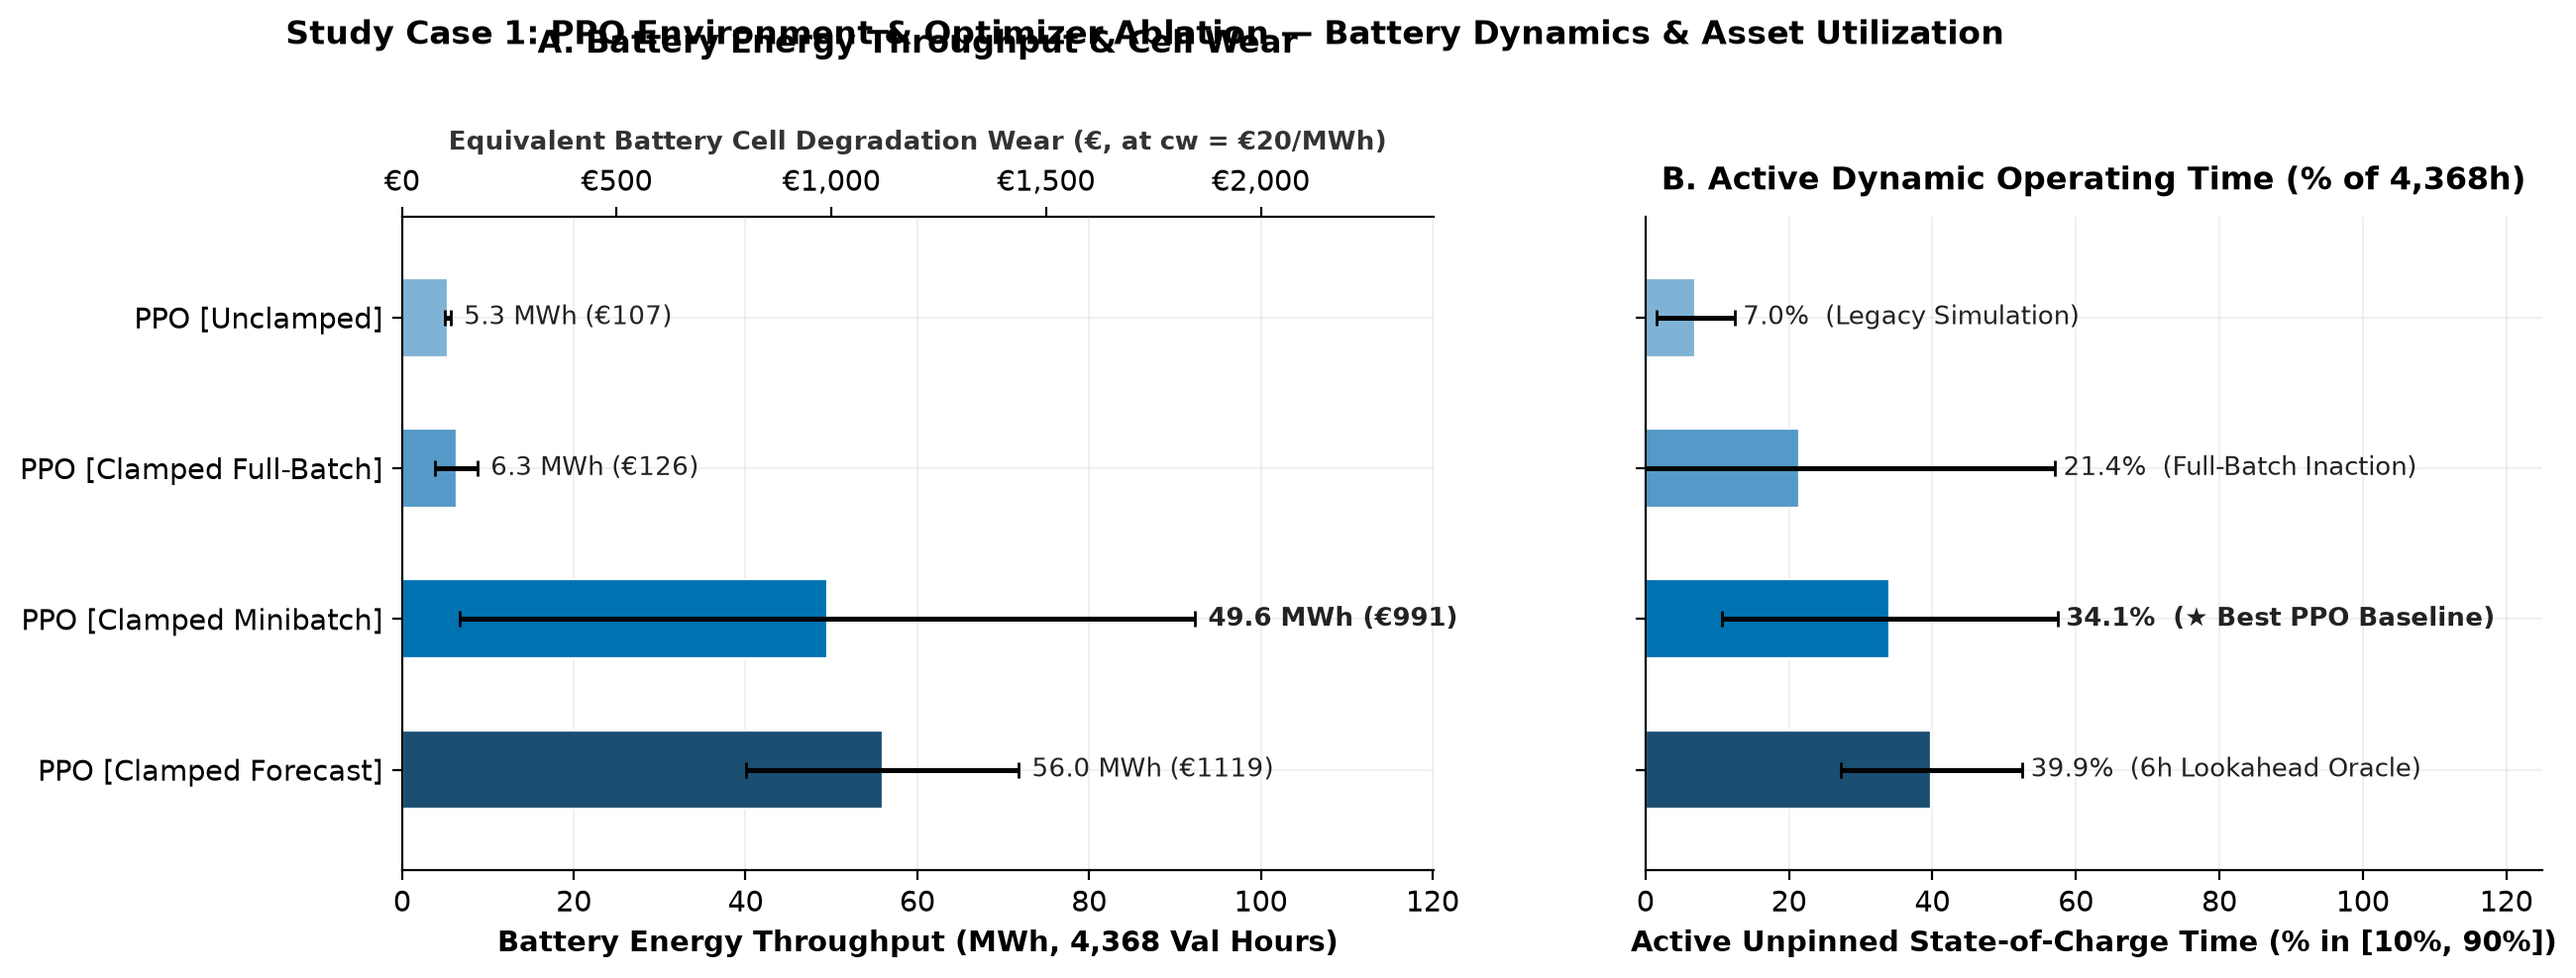
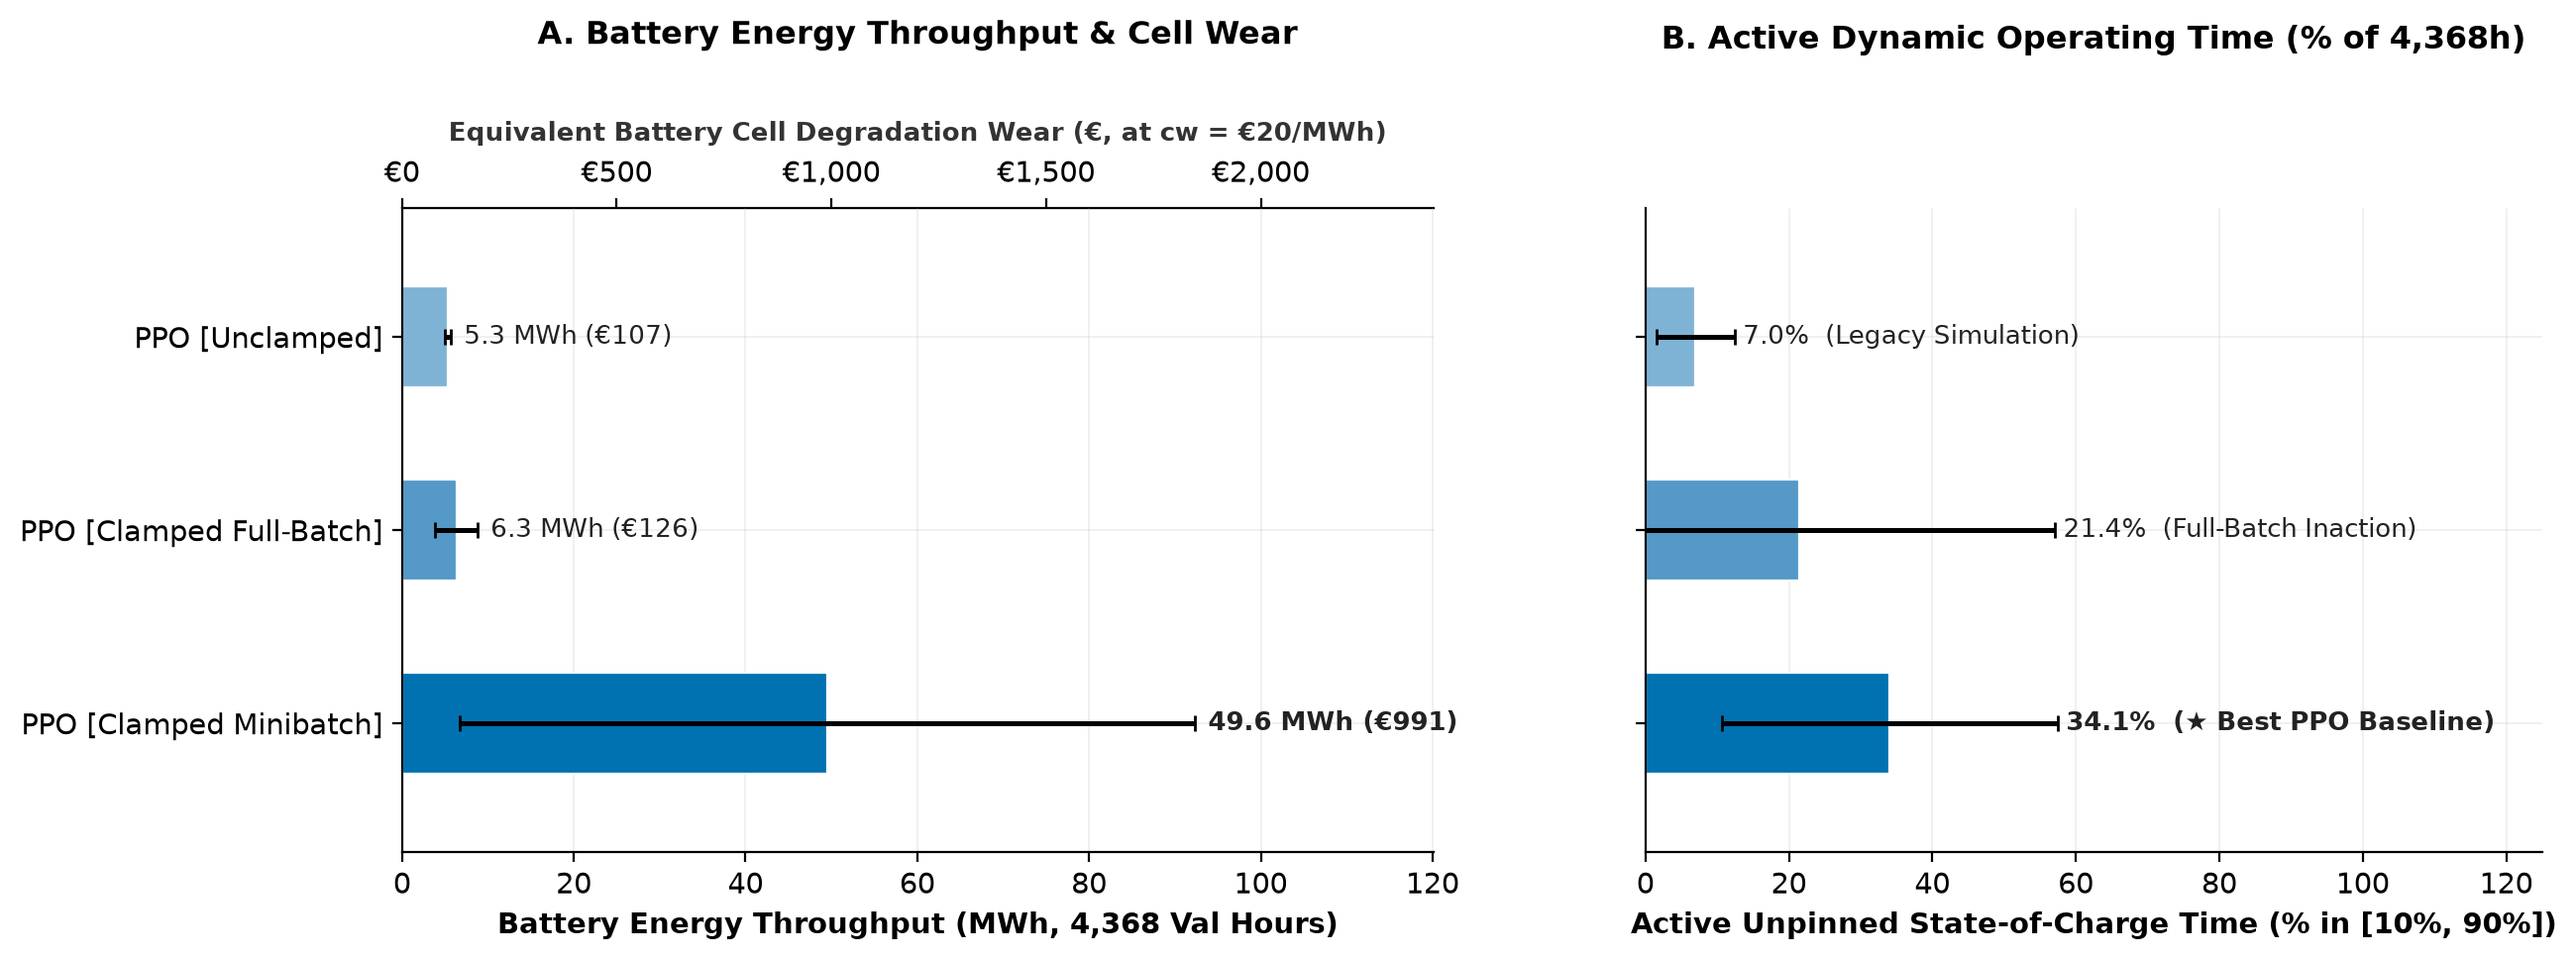
Fix text overlap in ppo_ablation_battery_dynamics: align panel titles and remove colliding suptitle

diff --git a/tools/report/plots.py b/tools/report/plots.py
@@ -1895,11 +1895,9 @@ def fig_ppo_ablation_battery_dynamics(all_families, baselines, out_dir=None):
     ax_soc.set_ylim(min(y_ticks) - 0.7, max(y_ticks) + 0.7)
     ax_soc.set_xlim(0, 125)
     ax_soc.set_xlabel("Active Unpinned State-of-Charge Time (% in [10%, 90%])", fontsize=10.5, fontweight="bold")
-    ax_soc.set_title("B. Active Dynamic Operating Time (% of 4,368h)", fontsize=11.5, fontweight="bold", pad=10)
+    ax_soc.set_title("B. Active Dynamic Operating Time (% of 4,368h)", fontsize=11.5, fontweight="bold", pad=58)
 
-    fig.suptitle("Study Case 1: PPO Environment & Optimizer Ablation — Battery Dynamics & Asset Utilization",
-                 fontsize=12, fontweight="bold", y=1.02)
-    fig.subplots_adjust(left=0.25, right=0.97, top=0.82, bottom=0.16)
+    fig.subplots_adjust(left=0.25, right=0.97, top=0.80, bottom=0.15)
     out_path = os.path.join(dest_dir, "ppo_ablation_battery_dynamics.png")
     fig.savefig(out_path, bbox_inches="tight")
     plt.close(fig)
